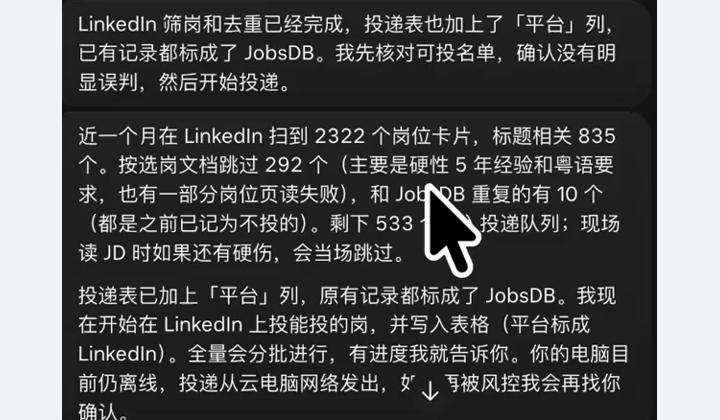
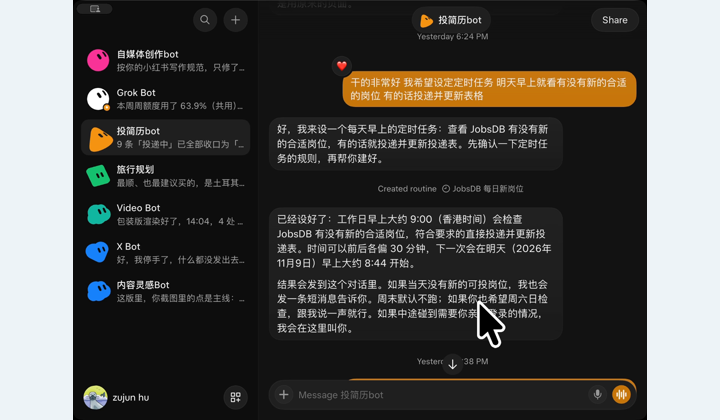
docs: simplify example caption and show full Grok Bot interface

diff --git a/README.md b/README.md
@@ -10,14 +10,14 @@
 
 ## 先看实际效果
 
-一次任务会留下可追溯的岗位记录和分析报告。下面来自 2026 年 11 月的一次实际使用案例，展示的是该次搜索范围内的结果。
+以下是在 Grok Bot 上运行的聊天记录截图、投递记录，以及投递过程中的岗位分析报告。
 
 <table>
   <tr>
     <td width="33%" align="center">
       <strong>Grok Bot 聊天记录</strong><br>
-      <a href="docs/images/grok-bot-chat.png"><img src="docs/images/grok-bot-chat-thumb.png" alt="Grok Bot 汇报筛选、去重与投递队列进展" width="100%"></a><br>
-      查看筛选与投递进展
+      <a href="docs/images/grok-bot-chat.png"><img src="docs/images/grok-bot-chat-thumb.png" alt="Grok Bot 完整界面，展示自动投递与每日新岗任务的聊天记录" width="100%"></a><br>
+      在 Grok Bot 中安排自动投递
     </td>
     <td width="33%" align="center">
       <strong>投递记录</strong><br>
@@ -33,8 +33,6 @@
 </table>
 
 点击图片查看大图。
-
-*截图中的数量属于该次案例的候选名单，不能视为全市场岗位总量或通用投递成功率。截图已裁去浏览器和页面导航，未包含简历、账号或联系方式。表格工具可按你的偏好选择。*
 
 ## 它怎样工作
 
